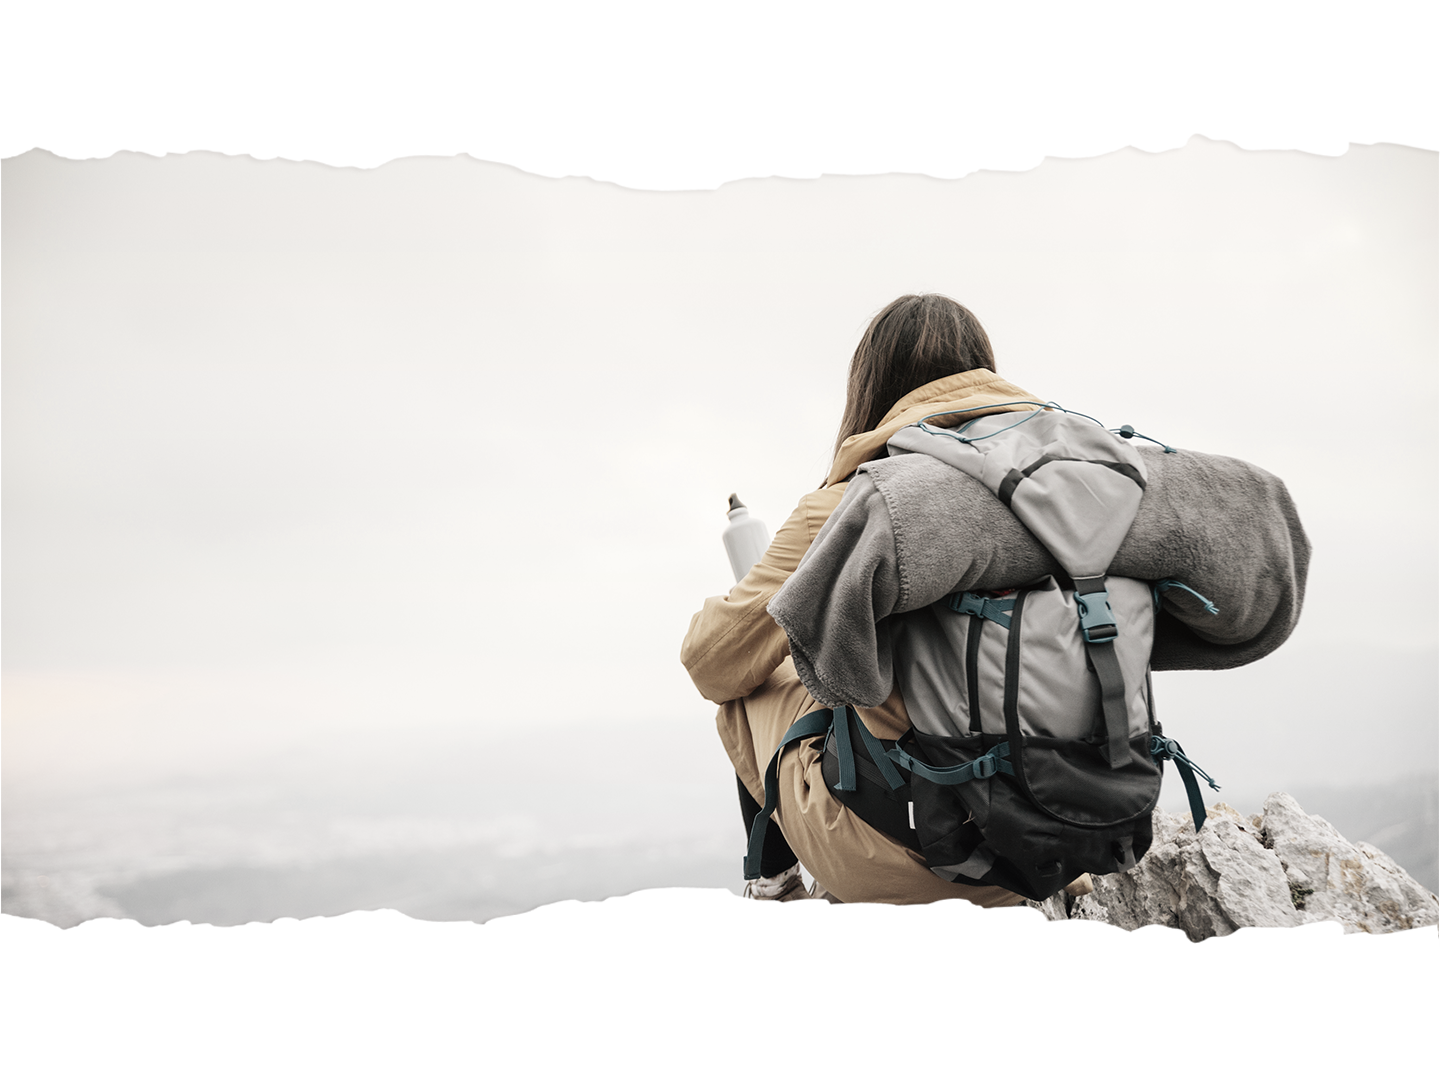
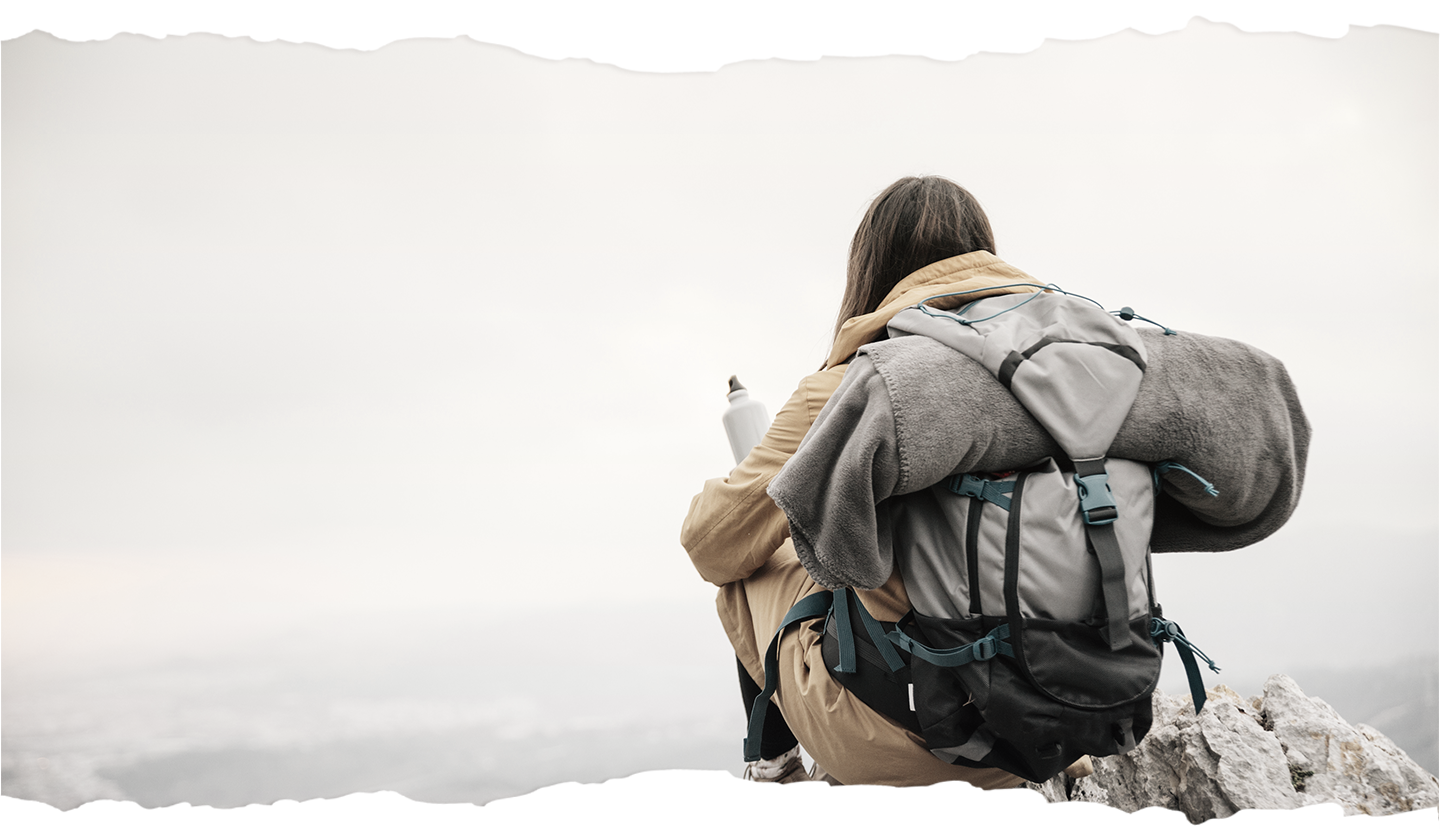
fix: section padding and height

diff --git a/index.html b/index.html
@@ -98,7 +98,7 @@
                 </div>
             </div>
         </header>
-        <section class="container-fluid background-img banner mb-5"
+        <section class="section d-flex align-items-center container-fluid background-img banner mb-5"
             style="background-image: url('imagens/background1.png');">
             <div class="row">
                 <div class="col-md-6 col-12">
@@ -111,7 +111,7 @@
                 </div>
             </div>
         </section>
-        <section class="container-fluid mt-5 second-session" style="background-image: url('imagens/background2.png');">
+        <section class="section container-fluid mt-5 second-session" style="background-image: url('imagens/background2.png');">
             <div class="text-center mb-5">
                 <h2 class="section-title mb-4">let's go</h2>
                 <p class="tertiary-color mt-2">Lorem ipsum dolor sit amet consectetur adipisicing elit.<br>
@@ -157,7 +157,7 @@
             </div>
             <button class="btn btn-tertiary d-block mx-auto mt-5">show more</button>
         </section>
-        <section class="container-fluid mb-5 third-session text-center text-md-left">
+        <section class="section container-fluid mb-5 third-session text-center text-md-left">
             <div class="row">
                 <div class="col-md-6 col-12 background-img" style="background-image: url('imagens/background3.png')">
                 </div>
@@ -193,7 +193,7 @@
                 </div>
             </div>
         </section>
-        <section class="container-fluid background-img fourth-section text-center text-md-left"
+        <section class="section container-fluid background-img fourth-section text-center text-md-left"
             style="background-image: url('imagens/background5.png');">
             <h2 class="mb-4">Hiking in the mountains</h2>
             <p>Lorem ipsum dolor sit amet consectetur adipisicing elit. Fugit dolor consequuntur sequi officia possimus,
@@ -204,7 +204,7 @@
         <section class="container-fluid background-img px-0 py-5">
             <img class="w-100" src="imagens/background6.png">
         </section>
-        <section class="container-fluid background-img py-5 testimonial-section"
+        <section class="section container-fluid background-img py-5 testimonial-section"
             style="background-image: url('imagens/Group7.png');">
             <div class="container px-5">
                 <div class="row pb-5 text-center text-md-left">
@@ -237,7 +237,7 @@
                 </div>
             </div>
         </section>
-        <section class="container-fluid background-img my-5" style="background-image: url('imagens/Group\ 8.png');">
+        <section class="d-flex section container-fluid background-img my-5" style="background-image: url('imagens/Group\ 8.png');">
             <div class="container subscription-section">
                 <h2 class="mb-4">Title Here</h2>
                 <p>Lorem ipsum dolor sit amet consectetur adipisicing elit. At magni quos corporis illo. Quos vero eius

diff --git a/index.css b/index.css
@@ -13,6 +13,10 @@ body {
     width: 100%;
 }
 
+.section {
+    min-height: 800px;
+}
+
 .viewport {
     width: 100%;
     height: 100%;
@@ -152,7 +156,7 @@ header .search-bar button {
 }
 
 .banner {
-    padding: 12rem 3rem;
+    padding: 2rem 3rem;
 }
 
 .banner .banner-title {
@@ -208,10 +212,9 @@ header .search-bar button {
 .second-session {
     padding-bottom: 7rem;
 }
-
 .third-session .session-card {
     background-color: var(--tertiary-color);
-    padding: 7rem 3rem;
+    padding: 4rem 3rem;
 }
 
 .third-session .session-card h6 {
@@ -224,10 +227,7 @@ header .search-bar button {
     justify-content: center;
     align-items: center;
     flex-direction: column;
-    padding-top: 12rem;
-    padding-bottom: 12rem;
     margin-top: 9rem;
-    margin-bottom: 6rem;
 }
 
 .fourth-section h2 {
@@ -281,8 +281,6 @@ header .search-bar button {
     flex-direction: column;
     align-items: center;
     justify-content: center;
-    padding-bottom: 12rem;
-    padding-top: 12rem;
 }
 
 .subscription-section h2 {
